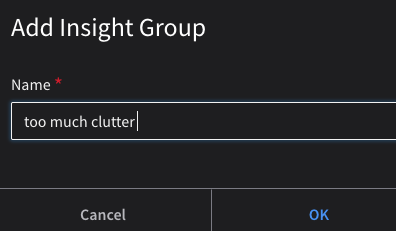
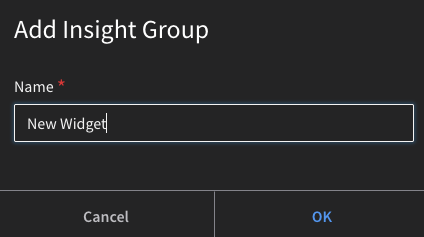
adding information on how to make a widget

diff --git a/docs/makingWidgetYourOwn.md b/docs/makingWidgetYourOwn.md
@@ -1,1 +1,30 @@
-#
+# Make your own widget screen:
+
+Start: click the widgets button.
+
+![Click Widgets Button](https://raw.githubusercontent.com/Karavan-Trailers/How-To-Sheets/main/img/makeYourWidget/StepOne.png)
+
+Click add
+
+![Click Add](https://raw.githubusercontent.com/Karavan-Trailers/How-To-Sheets/main/img/makeYourWidget/StepTwo.png)
+
+Name your own widget ui is will not affect anyone else
+
+![Name It](https://raw.githubusercontent.com/Karavan-Trailers/How-To-Sheets/main/img/makeYourWidget/StepThree.png)
+
+Click add widget
+
+![Click Add](https://raw.githubusercontent.com/Karavan-Trailers/How-To-Sheets/main/img/makeYourWidget/StepFour.png)
+
+Search Related Information
+
+![Click Search](https://raw.githubusercontent.com/Karavan-Trailers/How-To-Sheets/main/img/makeYourWidget/StepFive.png)
+
+
+Click add widget in the upper right
+
+![Click Add](https://raw.githubusercontent.com/Karavan-Trailers/How-To-Sheets/main/img/makeYourWidget/StepSix.png)
+
+Click save
+
+![Click Save](https://raw.githubusercontent.com/Karavan-Trailers/How-To-Sheets/main/img/makeYourWidget/StepSeven.png)
